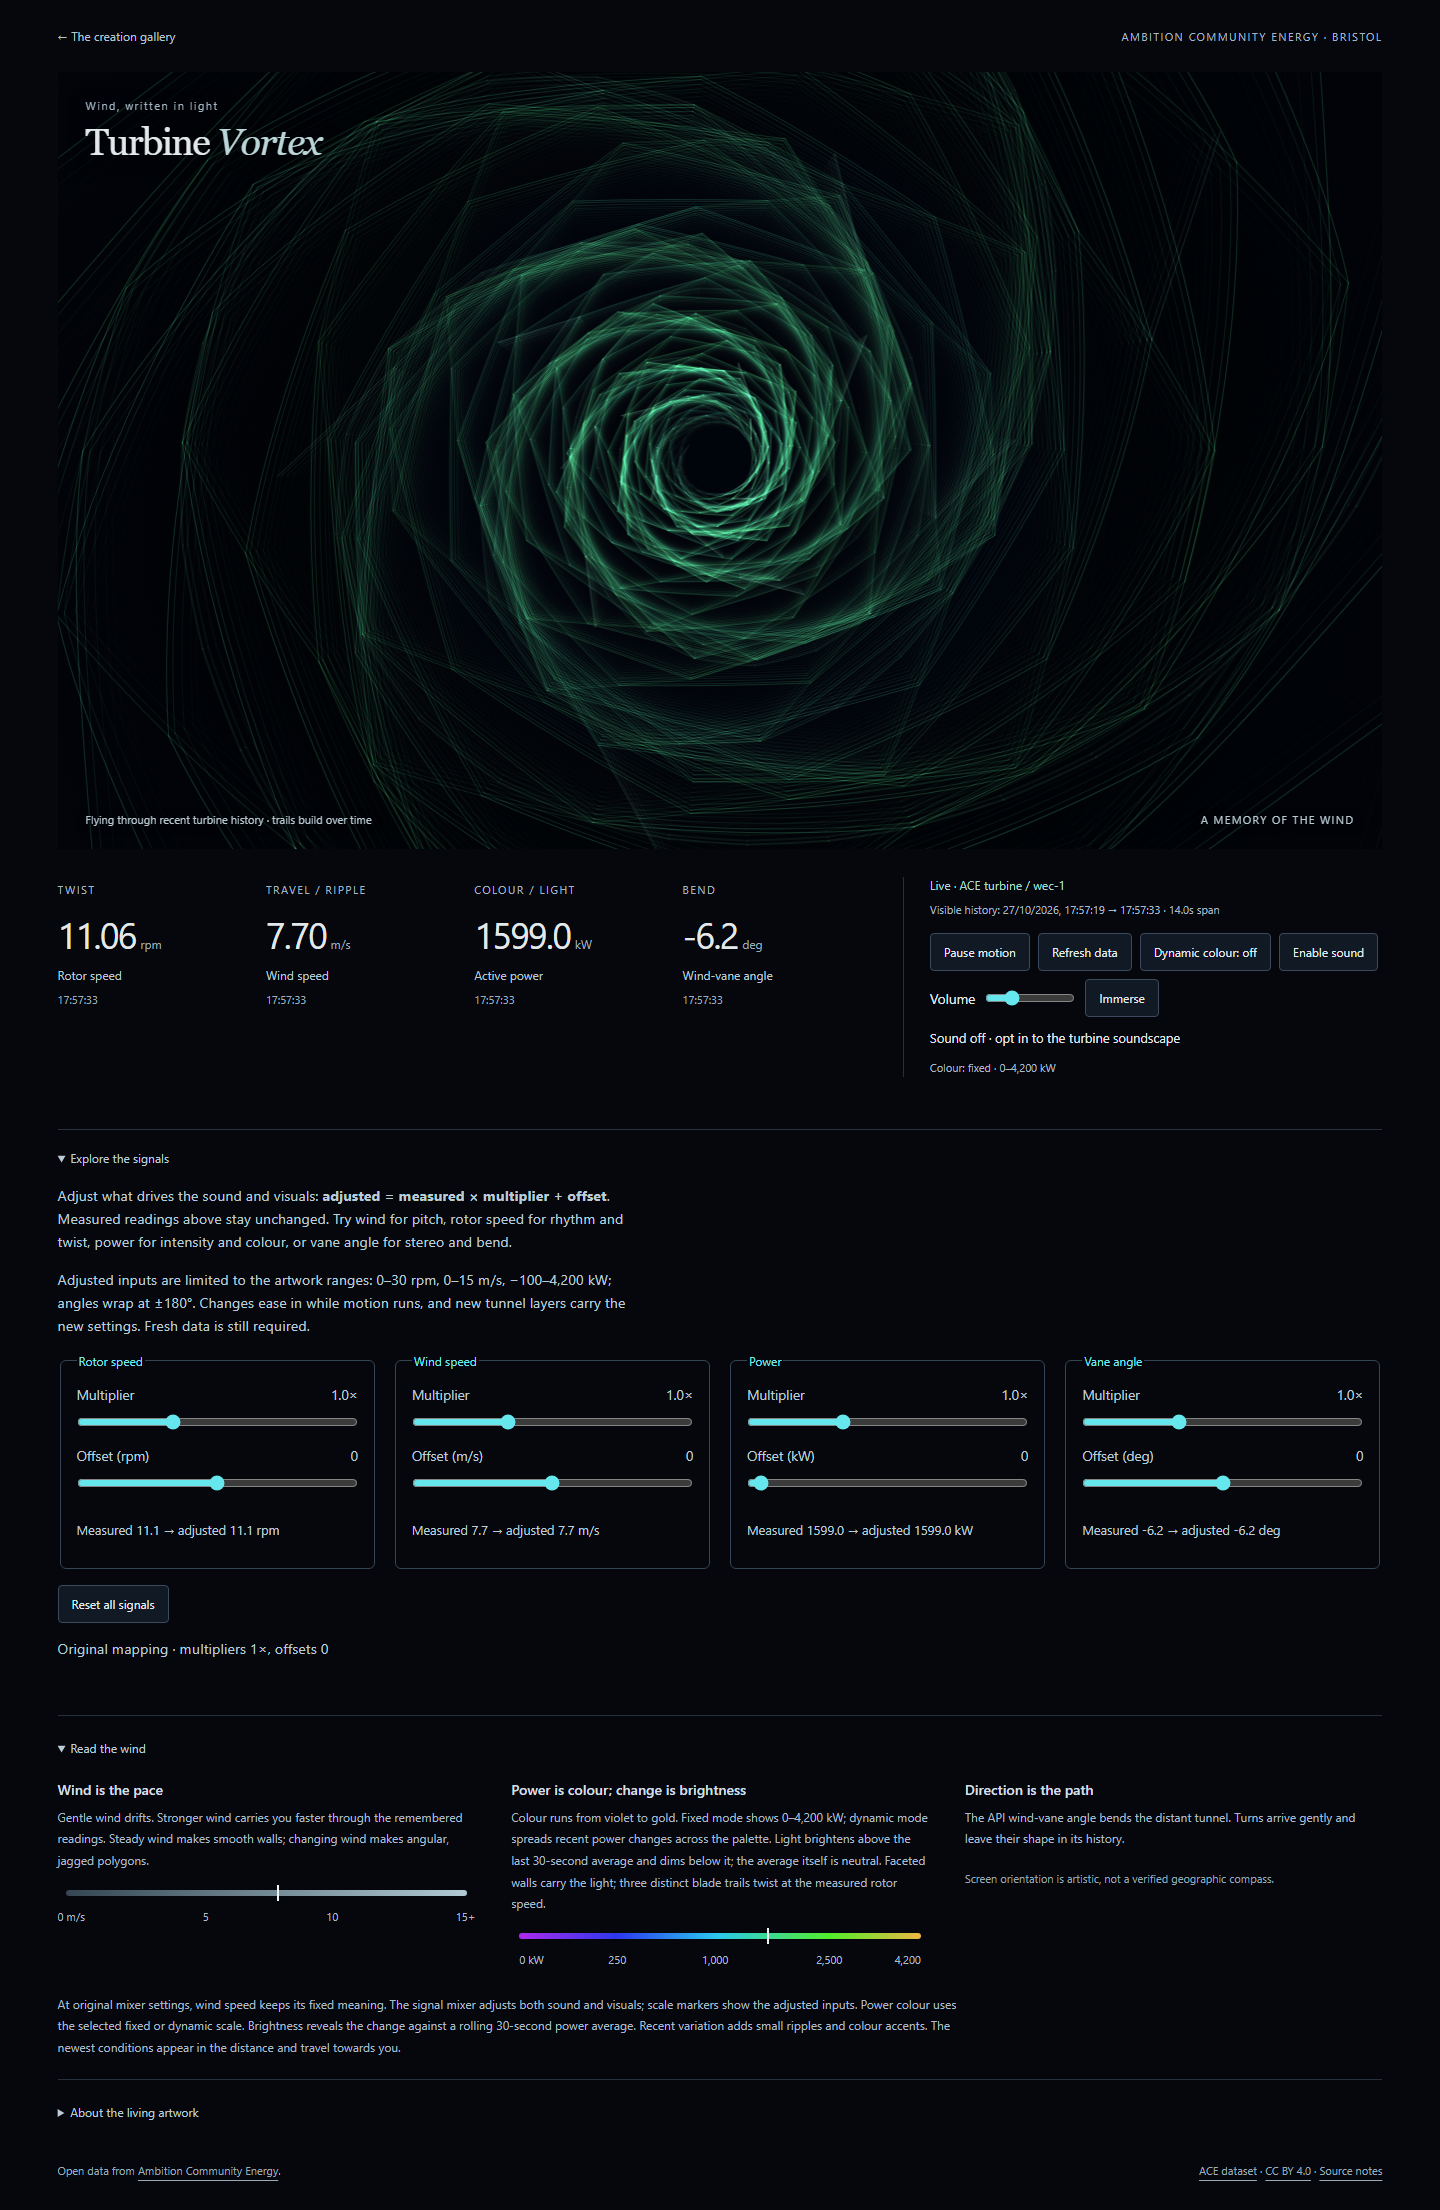
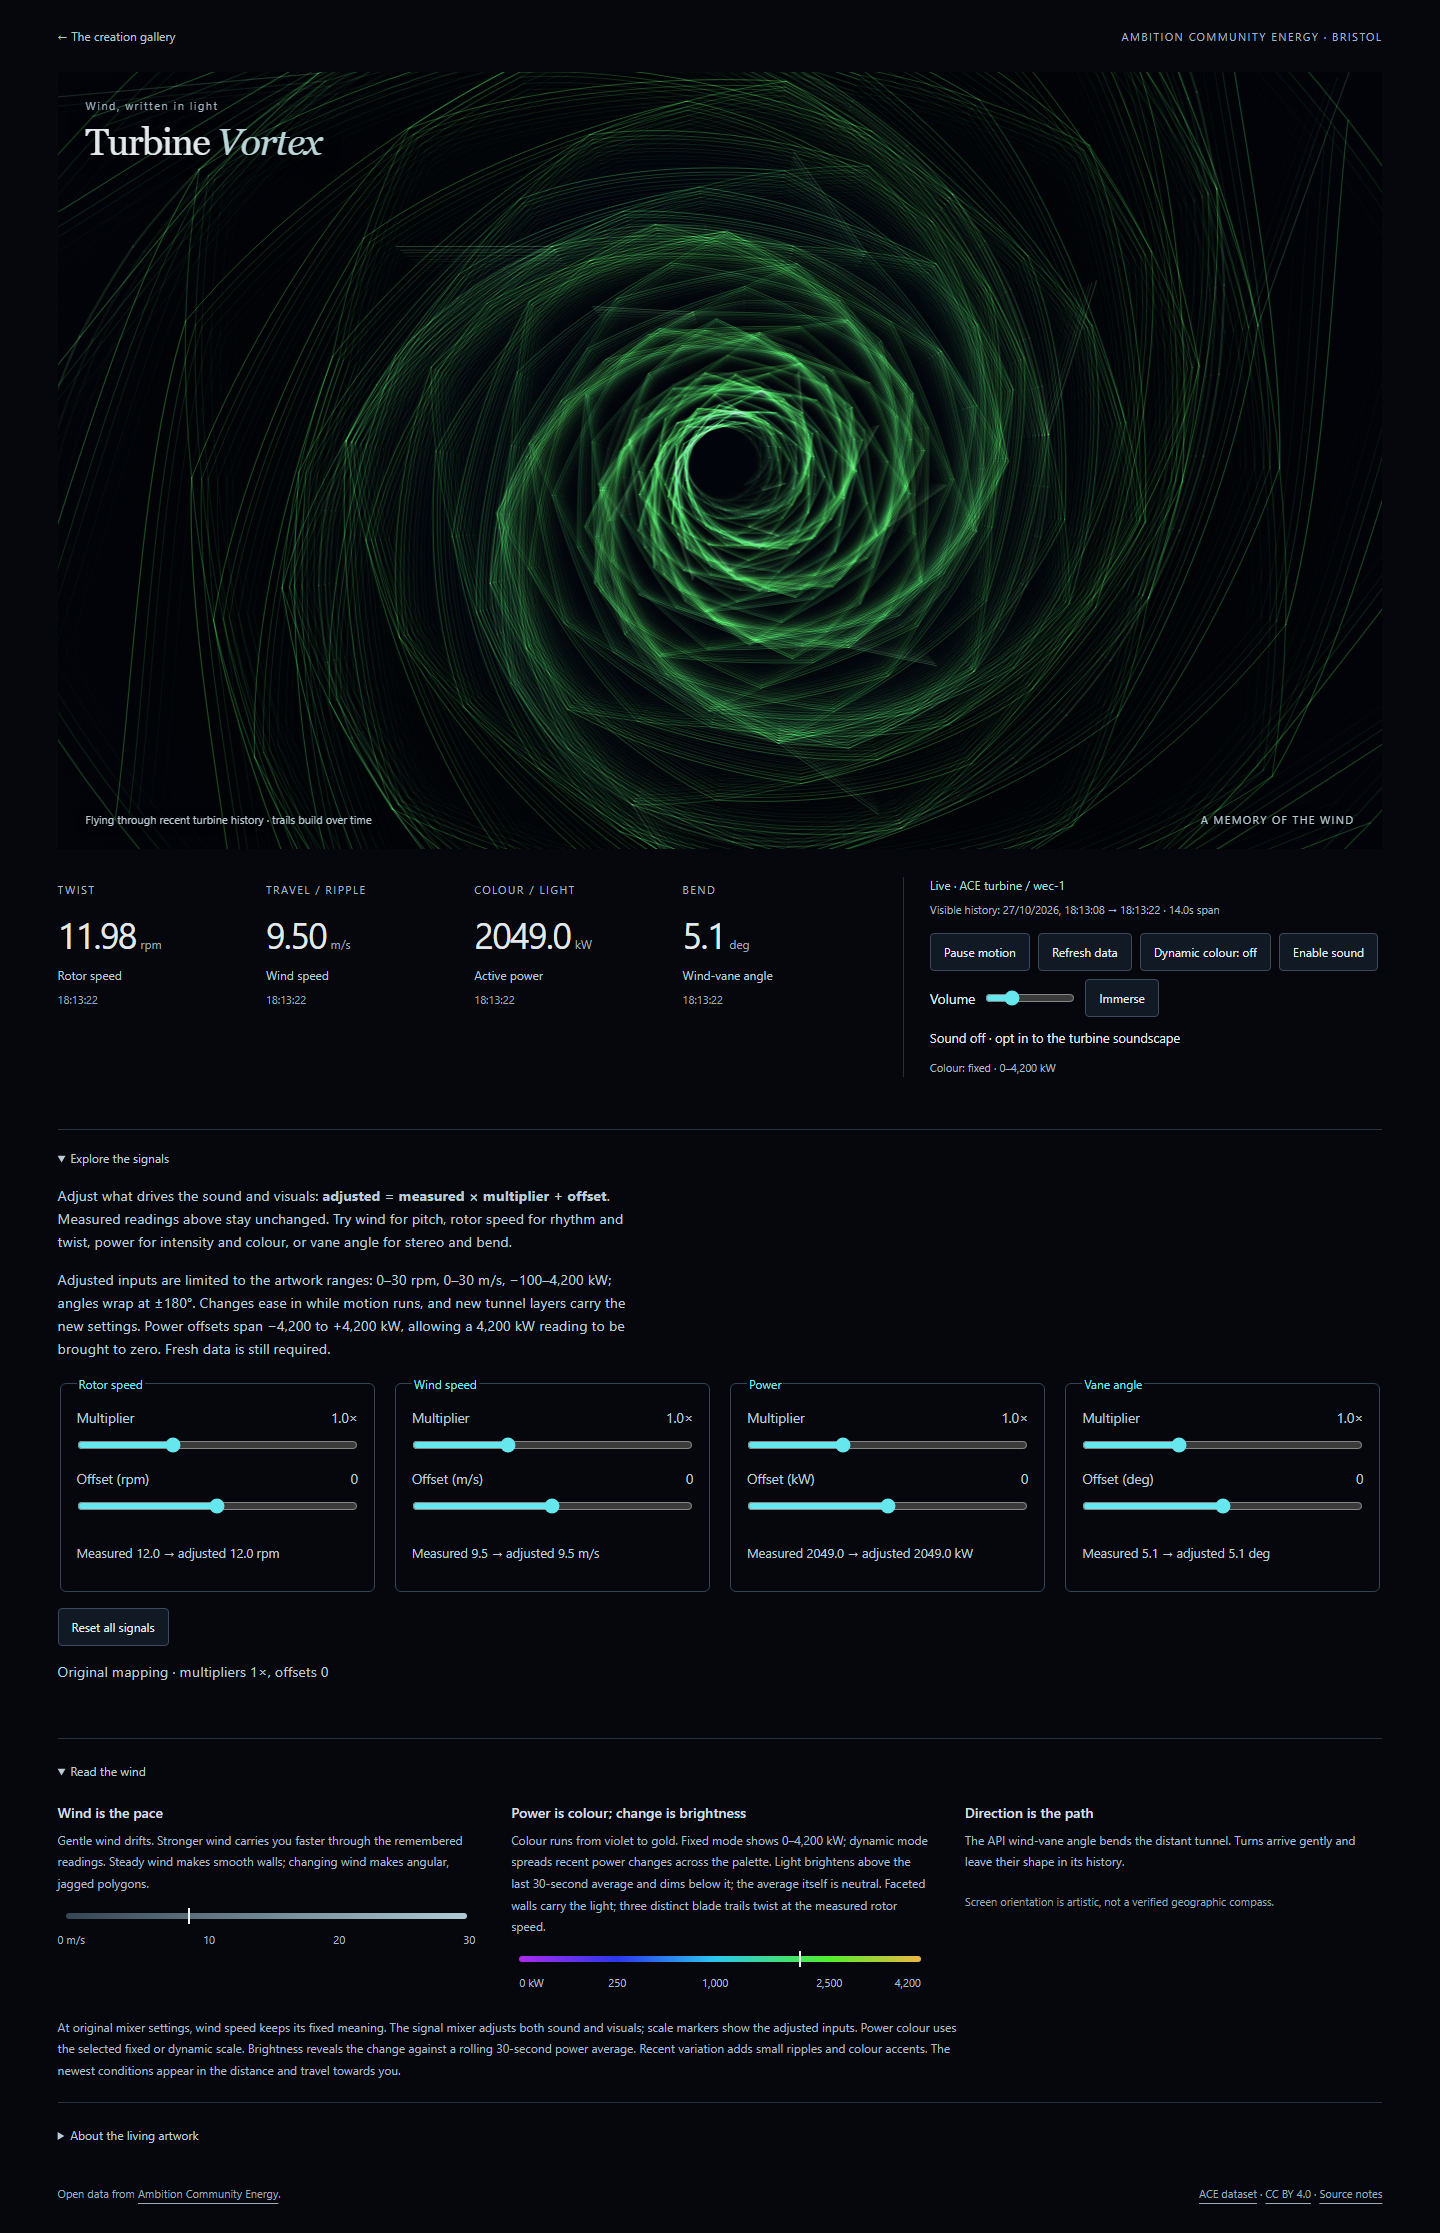
Extend wind exploration and restore full negative power offset

diff --git a/site/creations/turbine-vortex/index.html b/site/creations/turbine-vortex/index.html
@@ -16,11 +16,11 @@
 </div><div class="connection"><p id="status" role="status">Connecting to ACE…</p><p id="observed">No readings yet</p><div class="controls"><button id="pause" type="button" aria-pressed="false">Pause motion</button><button id="refresh" type="button">Refresh data</button><button id="colour-toggle" type="button" aria-pressed="false">Dynamic colour: off</button><button id="sound-toggle" type="button" aria-pressed="false">Enable sound</button><label class="sound-volume">Volume <input id="sound-volume" type="range" min="0" max="100" value="25" aria-label="Sound volume"></label><button id="fullscreen" type="button">Immerse</button></div><p id="sound-status" role="status">Sound off · opt in to the turbine soundscape</p><p id="colour-scale-status" class="colour-scale-status">Colour: fixed · 0–4,200 kW</p></div></section>
 <details class="signal-mixer" open><summary>Explore the signals</summary>
 <p>Adjust what drives the sound and visuals: <strong>adjusted = measured × multiplier + offset</strong>. Measured readings above stay unchanged. Try wind for pitch, rotor speed for rhythm and twist, power for intensity and colour, or vane angle for stereo and bend.</p>
-<p>Adjusted inputs are limited to the artwork ranges: 0–30 rpm, 0–15 m/s, −100–4,200 kW; angles wrap at ±180°. Changes ease in while motion runs, and new tunnel layers carry the new settings. Fresh data is still required.</p>
+<p>Adjusted inputs are limited to the artwork ranges: 0–30 rpm, 0–30 m/s, −100–4,200 kW; angles wrap at ±180°. Changes ease in while motion runs, and new tunnel layers carry the new settings. Power offsets span −4,200 to +4,200 kW, allowing a 4,200 kW reading to be brought to zero. Fresh data is still required.</p>
 <div id="mixer-signals"></div><button id="mixer-reset" type="button">Reset all signals</button><p id="mixer-status" role="status">Original mapping · multipliers 1×, offsets 0</p>
 </details>
 <details class="reading-guide" open><summary>Read the wind</summary><div class="legend-grid">
-<div><h2>Wind is the pace</h2><p>Gentle wind drifts. Stronger wind carries you faster through the remembered readings. Steady wind makes smooth walls; changing wind makes angular, jagged polygons.</p><div class="scale wind-scale" aria-hidden="true"><i id="wind-marker"></i></div><div class="scale-labels"><span>0 m/s</span><span>5</span><span>10</span><span>15+</span></div></div>
+<div><h2>Wind is the pace</h2><p>Gentle wind drifts. Stronger wind carries you faster through the remembered readings. Steady wind makes smooth walls; changing wind makes angular, jagged polygons.</p><div class="scale wind-scale" aria-hidden="true"><i id="wind-marker"></i></div><div class="scale-labels"><span>0 m/s</span><span>10</span><span>20</span><span>30</span></div></div>
 <div><h2>Power is colour; change is brightness</h2><p>Colour runs from violet to gold. Fixed mode shows 0–4,200 kW; dynamic mode spreads recent power changes across the palette. Light brightens above the last 30-second average and dims below it; the average itself is neutral. Faceted walls carry the light; three distinct blade trails twist at the measured rotor speed.</p><div class="scale power-scale" aria-hidden="true"><i id="power-marker"></i></div><div class="power-labels" id="power-labels"><span style="--at:0%">0 kW</span><span style="--at:24.4%">250</span><span style="--at:48.8%">1,000</span><span style="--at:77.2%">2,500</span><span style="--at:100%">4,200</span></div></div>
 <div><h2>Direction is the path</h2><p>The API wind-vane angle bends the distant tunnel. Turns arrive gently and leave their shape in its history.</p><p class="quiet-note">Screen orientation is artistic, not a verified geographic compass.</p></div>
 </div><p class="guide-note">At original mixer settings, wind speed keeps its fixed meaning. The signal mixer adjusts both sound and visuals; scale markers show the adjusted inputs. Power colour uses the selected fixed or dynamic scale. Brightness reveals the change against a rolling 30-second power average. Recent variation adds small ripples and colour accents. The newest conditions appear in the distance and travel towards you.</p></details>

diff --git a/site/creations/turbine-vortex/browser-check.py b/site/creations/turbine-vortex/browser-check.py
@@ -96,11 +96,19 @@ def run():
         page.locator('#rpm-offset').fill('12')
         page.wait_for_timeout(800)
         assert page.evaluate('rhythmVoices') > stopped_voices, 'Pulse did not restart'
-        assert page.locator('#power-offset').get_attribute('min') == '-100'
+        assert page.locator('#power-offset').get_attribute('min') == '-4200'
         assert page.locator('#power-offset').get_attribute('max') == '4200'
         page.locator('#power-multiplier').fill('0')
         page.locator('#power-offset').fill('-100')
         assert 'adjusted -100.0 kW' in page.locator('#power-mixed').inner_text()
+        page.locator('#power-multiplier').fill('1')
+        page.locator('#power-offset').fill('-4200')
+        assert 'adjusted -100.0 kW' in page.locator('#power-mixed').inner_text()
+        page.locator('#wind-multiplier').fill('0')
+        page.locator('#wind-offset').fill('30')
+        assert 'adjusted 30.0 m/s' in page.locator('#wind-mixed').inner_text()
+        assert page.locator('#wind-marker').evaluate("el => el.style.left") == '100%'
+
         page.locator('#mixer-reset').click()
 
         page.wait_for_timeout(700)

diff --git a/site/creations/turbine-vortex/README.md b/site/creations/turbine-vortex/README.md
@@ -25,7 +25,7 @@ Docs, OpenAPI, `/v1/sites`, `/v1/sites/ace/assets`, `/v1/families` and a live co
 ## Visual mapping
 
 - **Rotor speed:** three trails 120° apart share the walls' retained phase. Angular velocity is `clamp(RPM,0,30) × 2π/60`, eased over 2.5 seconds: steady 12 RPM gives one turn per five seconds. The rotor graphic is hidden. A separate whole-scene roll adds 0.025 radians/second (one turn in about 4 minutes 11 seconds); apparent screen rotation includes both.
-- **Wind speed:** `clamp(wind/15)` controls travel at `0.4 + 1.2 × level` depth units/second and light-wave spacing. Fifteen m/s is an artistic ceiling. Changes between distinct observations, divided by elapsed data seconds, drive roughness through `sqrt(clamp(abs(change)/0.5))`, eased over 1.2 seconds. Duplicate observations are ignored; gaps over 60 seconds reset the derivative. Roughness blends circles into irregular 12-sided polygons, amplified by 1.4 and capped at 1, with vertex displacement up to 16% of radius. Deformation grows downstream, leaving trail origins exact. Steady wind gradually replaces rough layers with smooth ones.
+- **Wind speed:** `clamp(wind/15,0,2)` controls travel at `0.4 + 1.2 × level` depth units/second and light-wave spacing. Thirty m/s is an artistic ceiling; travel reaches 2.8 depth units/second. Changes between distinct observations, divided by elapsed data seconds, drive roughness through `sqrt(clamp(abs(change)/0.5))`, eased over 1.2 seconds. Duplicate observations are ignored; gaps over 60 seconds reset the derivative. Roughness blends circles into irregular 12-sided polygons, amplified by 1.4 and capped at 1, with vertex displacement up to 16% of radius. Deformation grows downstream, leaving trail origins exact. Steady wind gradually replaces rough layers with smooth ones.
 - **Power:** fixed colour uses `sqrt(clamp(power/4200))`, from violet through cyan to gold. The API introduction documents nominal power of 4,200 kW. Signed power remains visible; negative values map to the zero-generation colour. A five-minute 10th–90th percentile range, minimum span 250 kW and 30-second adaptation constant, adds at most ±6° of ring hue detail. Fixed colour and power targets ease over 2.5 seconds. Higher absolute power also increases streak density. Dynamic colour is optional, described below.
 - **Brightness:** a time-weighted trailing 30-second power mean uses distinct observation timestamps and piecewise-constant readings. The current sample initially contributes zero duration. Brightness is `0.5 + 0.35 × clamp((power-mean)/max(25 kW,abs(mean)×0.05),-1,1)`, eased over 0.6 seconds. Above-average power brightens, below-average dims; the mean is neutral. Gaps over 60 seconds reset the mean. It drives the artwork internally without a separate numerical readout.
 - **Direction:** signed vane angles use shortest-arc easing over eight seconds. The artistic heading is `clamp(4 × angle,-120°,120°)`. At depth `d=z/18`, bend strength is `4d(1-d)`; horizontal displacement uses `sin(heading)`, vertical uses `1-cos(heading)`, then both follow the whole-scene roll. The origin stays centred and a zero angle gives no bend. These are screen coordinates, not compass bearings.
@@ -75,9 +75,9 @@ the arpeggio plays sixteenth notes and the kick plays each beat. Zero RPM stops
 new arpeggio notes and kicks; existing notes and delay tails decay naturally.
 The sustained wind/power-driven drone remains. Tempo changes preserve the
 remaining fraction of the rhythmic subdivision, so recovery from zero cannot
-strand the scheduler. Wind (0–15 m/s)
-opens a low-pass filter from 180 to 3,180 Hz and transposes the drone and
-arpeggio continuously by 0–1,200 cents (one octave), with a 0.8-second
+strand the scheduler. Wind (0–30 m/s)
+opens a low-pass filter from 180 to 6,180 Hz and transposes the drone and
+arpeggio continuously by 0–2,400 cents (two octaves), with a 0.8-second
 exponential glide time constant. Both share one pitch control, preserving their
 intervals; the kick stays low. Power (0–4,200 kW) increases drone
 and note intensity using a square-root curve; negative power maps to minimum
@@ -98,8 +98,8 @@ refresh and 60-second stale policy above remain unchanged.
 
 The signal mixer applies `adjusted = measured × multiplier + offset` to the four
 validated inputs for both sound and visuals. Multipliers span 0–3×; offsets span
-±15 rpm, ±10 m/s, −100–4,200 kW and ±180 degrees. Adjusted values clamp to 0–30 rpm,
-0–15 m/s and −100–4,200 kW; vane angles wrap to ±180°. Each row shows measured and
+±15 rpm, ±30 m/s, ±4,200 kW and ±180 degrees. Adjusted values clamp to 0–30 rpm,
+0–30 m/s and −100–4,200 kW; vane angles wrap to ±180°. Each row shows measured and
 adjusted values. A zero multiplier plus an offset holds a chosen artistic input
 while valid live data continues. It cannot bypass missing/stale data or pause.
 
@@ -114,3 +114,8 @@ older layers keep their previous shape. This is a creative exploration, not a
 prediction of turbine behaviour. Reset all signals restores 1× and zero offsets;
 reload also resets them. No settings are saved and no additional API calls occur.
 The mixer is available outside Immerse; exit immersion to adjust it.
+
+Wind mappings retain their original slope through 15 m/s and continue to 30 m/s;
+pitch, filter and travel no longer saturate at 15 m/s. Power offsets are separate
+from the adjusted power bounds: 4,200 kW × 1 − 4,200 kW gives 0 kW, while
+adjusted power still clamps at −100 to 4,200 kW.
